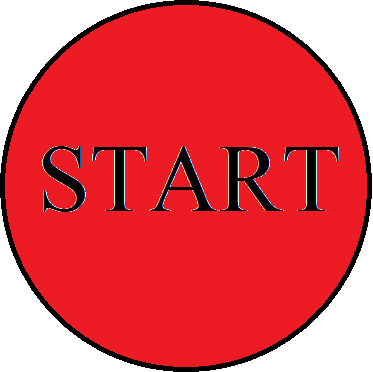
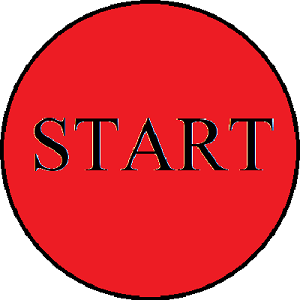
DB con #7 + highscore #3

diff --git a/index.html b/index.html
@@ -3,16 +3,17 @@
 <head>
 	<meta charset="utf-8">
 	<link href="https://cdn.jsdelivr.net/npm/bootstrap@5.1.1/dist/css/bootstrap.min.css" rel="stylesheet" integrity="sha384-F3w7mX95PdgyTmZZMECAngseQB83DfGTowi0iMjiWaeVhAn4FJkqJByhZMI3AhiU" crossorigin="anonymous">
+	<link rel="stylesheet" type="text/css" href="css/css.css">
 </head>
 <body class="">
 
 <!-- header -->
-<header class="display-1 text-info m-5 text-center ">
+<header class="display-1 text-info text-center bg-dark p-3">
 is TIME UP?
 </header>
 
 <!-- nav bar -->
-<ul class="list-inline text-light p-2">
+<ul class="list-inline text-light p-3">
   <li class="list-inline-item"><a class="text-dark" href="#"><u>Home</u></a></li>
   <li class="list-inline-item"><a class="text-secondary" href="play.html"><u>Play</u></a></li>
   <li class="list-inline-item"><a class="text-secondary" href="analytics.html"><u>Analitics</u></a></li>
@@ -20,20 +21,39 @@ is TIME UP?
 
 <!-- start button -->
 <div class="text-center mt-5">
-	<img class="border rounded-circle" src="img/start_btn.jpg" onclick="startGame()" />
+	<img class="border rounded-circle pointer-cursor" id="startGame_btn" src="img/start_btn.jpg" onclick="startGame()" onmousedown="delargeStartButtonImg()" onmouseup="enlargeStartButtonImg()" onmouseover="enlargeStartButtonImg()" onmouseout="delargeStartButtonImg()" />
 </div>
 
 
 <!-- highscore -->
-<div>
-	
+<div class="container text-center w-50 mt-3">
+	<h1>SCORECARD</h1>
+	<div class="row border border-secondary text-secondary rounded font-15 mt-2" onmouseover="hoverOnFill(this)" onmouseout="hoverOffFill(this)">
+		<div class="col" id="highScore3User"></div>
+		<div class="col" id="highScore3Score"></div>
+	</div>
+	<div class="row border border-primary text-primary rounded font-20 mt-2" onmouseover="hoverOnFill(this)" onmouseout="hoverOffFill(this)">
+		<div class="col" id="highScore2User"></div>
+		<div class="col" id="highScore2Score"></div>
+	</div>
+	<div class="row border border-success text-success rounded font-25 mt-2" onmouseover="hoverOnFill(this)" onmouseout="hoverOffFill(this)">
+		<div class="col" id="highScore1User"></div>
+		<div class="col" id="highScore1Score"></div>
+	</div>
 </div>
 
 <!-- footer -->
 <footer class="text-light fixed-bottom bg-dark p-3">
-	<p class="float-start">©SKRinternationals PVT. LTD. estd. 2021</p>
+	<p class="float-start">©SKRinternationals PVT. LTD.<br> estd. 2021</p>
 	<a class="text-info float-end" href="contact.html">Contact us</a>
 </footer>
 </body>
 <script src="js/main.js"></script>
+<script src="js/startgame_btn.js"></script>
+
+<script src="https://cdnjs.cloudflare.com/ajax/libs/jquery/2.2.4/jquery.js"></script>
+<script src="https://www.gstatic.com/firebasejs/5.8.0/firebase.js"></script>
+<script src="js/db.js"></script>
+
+</script>
 </html>

diff --git a/play.html b/play.html
@@ -8,44 +8,46 @@
 <body class="">
 
 <!-- header -->
-<header class="display-1 text-info m-5 text-center ">
+<header class="display-1 text-info text-center bg-dark p-3">
 is TIME UP?
 </header>
 
 <!-- nav bar -->
-<ul class="list-inline text-light p-2">
+<ul class="list-inline text-light p-3">
   <li class="list-inline-item"><a class="text-dark" href="index.html"><u>Back</u></a></li>
 </ul>
 
 <!-- introduction -->
-<div class="bg-dark w-75 p-4 m-5 mx-auto rounded" id="instruction">
-	<h1 class="text-light font-weight-bold">INSTRUCTIONS:</h1>
+<div class="w-75 m-5 mx-auto" id="instruction">
+	<div class="p-4 rounded border border-secondary">
+	<h1 class="text-dark font-weight-bold">INSTRUCTIONS:</h1>
 	<div>
 		<ol>
-			<li class="text-warning">Press Get TIME (X)</li>
-			<li class="text-warning">Press Start</li>
-			<li class="text-warning">Wait for X secs</li>
-			<li class="text-warning">Press STOP when you think secs passed</li>
-			<li class="text-warning">**Precision = Points**</li>
+			<li class="text-secondary"><h4>Press Get TIME (X)</h4></li>
+			<li class="text-secondary"><h4>Press Start</h4></li>
+			<li class="text-secondary"><h4>Wait for X secs</h4></li>
+			<li class="text-secondary"><h4>Press STOP when you think secs passed</h4></li>
+			<li class="text-secondary"><h4>**Precision = Points**</h4></li>
 		</ol>
 	</div>
-	<center><button class="btn btn-primary mt-3" onclick="closeInstruction()">PLAY</button></center>
+</div>
+	<center><button class="btn btn-success mt-3 font-30" onclick="closeInstruction()">PLAY</button></center>
 </div>
 
 <!-- add game logic here -->
-<div class="" id="game">
+<div class="m-5" id="game">
 	<center>
-		<p class="display-4 btn btn-primary rounded font-weight-bold" onclick="genTime()" id="getTime">Get Time</p>
+		<p class="display-4 btn btn-primary rounded font-weight-bold font-30" onclick="genTime()" id="getTime">Get Time</p>
 	</center>
 
 	<div class="text-center">
-		<button class="btn btn-success text-center mt-5 rounded-circle" onclick="startTime()" id="startTimer_btn">START</button>
+		<button class="btn btn-success text-center mt-3 font-50 circle-md" onclick="startTime()" id="startTimer_btn">START</button>
 	</div>
 
 	<!-- scoring -->
 	<div class="text-center mt-5">
-		<p id="score" class="display-3">SCORE : 0</p>
-		<button class="btn btn-warning" onclick="saveScore()" id="save_btn">Save</button>
+		<p id="score" class="display-4">SCORE : 0</p>
+		<button class="btn btn-warning font-25" onclick="saveScore()" id="save_btn">Save</button>
 	</div>
 </div>
 

diff --git a/js/main.js b/js/main.js
@@ -3,8 +3,64 @@ function startGame(){
 	window.location = "play.html";  
 }
 
-//close instruction
-function closeInstruction(){
-	document.getElementById('instruction').remove();
-	document.getElementById('game').style.visibility  = 'visible';
+function hoverOnFill(ele){
+	if(ele.classList.contains("border-secondary")){
+		ele.classList.add("bg-secondary");
+		ele.classList.add("text-light");
+	}
+	if(ele.classList.contains("border-primary")){
+		ele.classList.add("bg-primary");
+		ele.classList.add("text-light");
+	}
+	if(ele.classList.contains("border-dark")){
+		ele.classList.add("bg-dark");
+		ele.classList.add("text-light");
+	}
+	if(ele.classList.contains("border-success")){
+		ele.classList.add("bg-success");
+		ele.classList.add("text-light");
+	}
+	if(ele.classList.contains("border-warning")){
+		ele.classList.add("bg-warning");
+		ele.classList.add("text-dark");
+	}
+	if(ele.classList.contains("border-info")){
+		ele.classList.add("bg-info");
+		ele.classList.add("text-dark");
+	}
+	if(ele.classList.contains("border-danger")){
+		ele.classList.add("bg-danger");
+		ele.classList.add("text-light");
+	}
+}
+
+function hoverOffFill(ele){
+	if(ele.classList.contains("border-secondary")){
+		ele.classList.remove("bg-secondary");
+		ele.classList.remove("text-light");
+	}
+	if(ele.classList.contains("border-primary")){
+		ele.classList.remove("bg-primary");
+		ele.classList.remove("text-light");
+	}
+	if(ele.classList.contains("border-dark")){
+		ele.classList.remove("bg-dark");
+		ele.classList.remove("text-light");
+	}
+	if(ele.classList.contains("border-success")){
+		ele.classList.remove("bg-success");
+		ele.classList.remove("text-light");
+	}
+	if(ele.classList.contains("border-warning")){
+		ele.classList.remove("bg-warning");
+		ele.classList.remove("text-dark");
+	}
+	if(ele.classList.contains("border-info")){
+		ele.classList.remove("bg-info");
+		ele.classList.remove("text-dark");
+	}
+	if(ele.classList.contains("border-danger")){
+		ele.classList.remove("bg-danger");
+		ele.classList.remove("text-light");
+	}
 }

diff --git a/js/db.js b/js/db.js
@@ -1,3 +1,21 @@
+const config = {
+	apiKey: "AIzaSyD29K0iWpMe-uvxwVABrdUEXSS8_xvDVSc",
+	authDomain: "is-time-up.firebaseapp.com",
+	databaseURL: "https://is-time-up-default-rtdb.firebaseio.com",
+	projectId: "is-time-up",
+	storageBucket: "is-time-up.appspot.com",
+	messagingSenderId: "72923141638",
+	appId: "1:72923141638:web:32178274645ed9c2f9d587",
+	measurementId: "G-DPB45LH10H"
+};
+
+firebase.initializeApp(config);
+var ref = firebase.database().ref("isTimeUp");
+
+window.onload = function(){
+	displayHighScore();
+}
+
 function writeScore(){
 	// alert("asd");
 }
@@ -8,4 +26,21 @@ function readTop3Score(){
 
 function readAllScore(){
 	
+}
+
+function displayHighScore(){
+	var row = 3;
+	ref.orderByChild('score').limitToLast(3).once('value', (snapshot) => {
+		snapshot.forEach(function (childSnapshot) {
+            var userName = childSnapshot.key;
+            var userScore = childSnapshot.val().score;
+
+            var colUser = document.getElementById("highScore"+row+"User");
+            var colScore = document.getElementById("highScore"+row+"Score");
+
+            colUser.innerHTML = userName;
+            colScore.innerHTML = userScore + "pts.";
+            row--;
+        });
+	});
 }

diff --git a/js/game.js b/js/game.js
@@ -8,6 +8,12 @@ document.getElementById("startTimer_btn").disabled  = true;
 document.getElementById("result").style.visibility  = 'hidden';
 document.getElementById('game').style.visibility  = 'hidden';
 
+//close instruction
+function closeInstruction(){
+	document.getElementById('instruction').remove();
+	document.getElementById('game').style.visibility  = 'visible';
+}
+
 //generate time
 function genTime(){
 	var time = document.getElementById("getTime");
@@ -16,10 +22,10 @@ function genTime(){
 	time.classList.remove("rounded");
 	time.setAttribute('onclick','');
 	time.classList.add("text-primary");
-
+	time.classList.add("font-50");
 
 	actualTime = Math.floor(Math.random() * 9 + 1);
-	time.innerHTML = actualTime;
+	time.innerHTML = actualTime + " secs";
 	document.getElementById("startTimer_btn").disabled = false;
 }
 
@@ -77,7 +83,7 @@ function closeResult(){
 //-----------------------------------------Need to change the scoring pattern;
 //calculate score
 function calcScore(){
-	score = 10 - Math.abs(actualTime - yourTime);
+	score = Math.round(10 - Math.abs(actualTime - yourTime)).toFixed(3);
 	totalScore += score;
 	document.getElementById('score').innerHTML = "SCORE : " + totalScore;
 }

diff --git a/css/css.css b/css/css.css
@@ -1,0 +1,53 @@
+.pointer-cursor{
+	cursor: pointer;
+}
+
+.font-15{
+	font-size: 15px;
+}
+
+.font-20{
+	font-size: 20px;
+}
+
+.font-25{
+	font-size: 25px;
+}
+
+.font-30{
+	font-size: 30px;
+}
+
+.font-35{
+	font-size: 35px;
+}
+
+.font-40{
+	font-size: 40px;
+}
+
+.font-45{
+	font-size: 45px;
+}
+
+.font-50{
+	font-size: 50px;
+}
+
+.circle-md{
+	height: 200px;
+	width: 200px;
+	border-radius: 50%;
+}
+
+.circle-sm{
+	height: 100px;
+	width: 100px;
+	border-radius: 50%;
+}
+
+.circle-lg{
+	height: 400px;
+	width: 400px;
+	border-radius: 50%;
+}

diff --git a/js/startgame_btn.js b/js/startgame_btn.js
@@ -1,0 +1,11 @@
+var startGameBtn = document.getElementById("startGame_btn");
+
+function enlargeStartButtonImg() {
+	startGameBtn.style.height = "325px";
+	startGameBtn.style.marginTop = "-15px";
+}
+
+function delargeStartButtonImg() {
+	startGameBtn.style.height = "300px";
+	startGameBtn.style.marginTop = "0px";
+}
